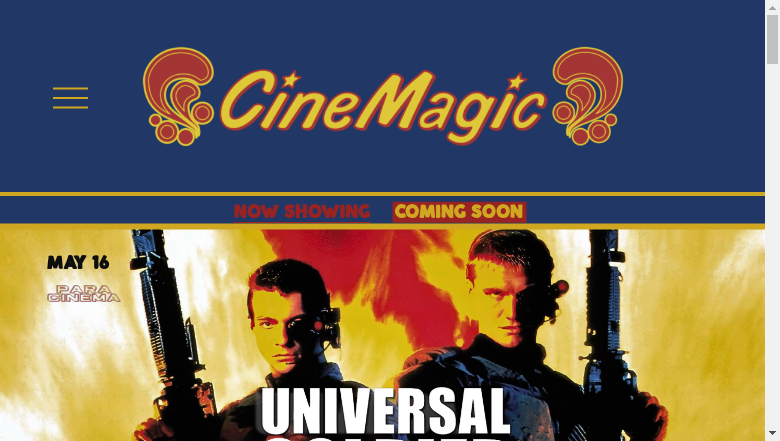
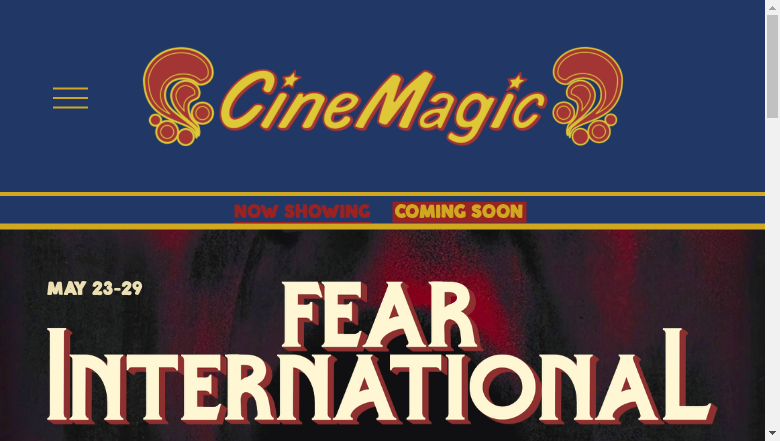
Automated update

diff --git a/index.html b/index.html
@@ -17,7 +17,7 @@
           </li>
         </ul>
         <ul>
-          <li>Last Updated: 05/13/2025 04:01:13</li>
+          <li>Last Updated: 05/16/2025 04:01:26</li>
           <li>        
             <details class="dropdown">
             <summary>
@@ -35,15 +35,19 @@
         <article>
           <header><h3>Now Playing</h3></header>
           
-            <img style="height: 220px; width: 150px;" src="https://www.laurelhursttheater.com/media.php?guid=5ba299b22262620987a4d1d9769238e3&amp;code=full">
+            <img style="height: 220px; width: 150px;" src="https://www.laurelhursttheater.com/media.php?guid=306a031e4c31951e79c02581f1647530&amp;code=full">
+          
+            <img style="height: 220px; width: 150px;" src="https://www.laurelhursttheater.com/media.php?guid=96f5e60d9160c9f5a656b16a3b67c7b9&amp;code=full">
           
             <img style="height: 220px; width: 150px;" src="https://www.laurelhursttheater.com/media.php?guid=4c4861f448db1ae7b2413d48ced9f5f6&amp;code=full">
+          
+            <img style="height: 220px; width: 150px;" src="https://www.laurelhursttheater.com/media.php?guid=5ba299b22262620987a4d1d9769238e3&amp;code=full">
+          
+            <img style="height: 220px; width: 150px;" src="https://www.laurelhursttheater.com/media.php?guid=9d89bc9fbe85cd1562f02c9a53a3ef98&amp;code=full">
           
             <img style="height: 220px; width: 150px;" src="https://www.laurelhursttheater.com/media.php?guid=2eafd7a968233fb05b061ac80bbd878c&amp;code=full">
           
             <img style="height: 220px; width: 150px;" src="https://www.laurelhursttheater.com/media.php?guid=f1855a7f7f843122259bdadfa52435df&amp;code=full">
-          
-            <img style="height: 220px; width: 150px;" src="https://www.laurelhursttheater.com/media.php?guid=9d89bc9fbe85cd1562f02c9a53a3ef98&amp;code=full">
           
           <!-- <footer><h3>Coming Soon</h3</footer> -->
         </article>

diff --git a/events.html b/events.html
@@ -17,7 +17,7 @@
           </li>
         </ul>
         <ul>
-          <li>Last Updated: 05/13/2025 04:01:13</li>
+          <li>Last Updated: 05/16/2025 04:01:26</li>
           <li>
             <details class="dropdown">
             <summary>
